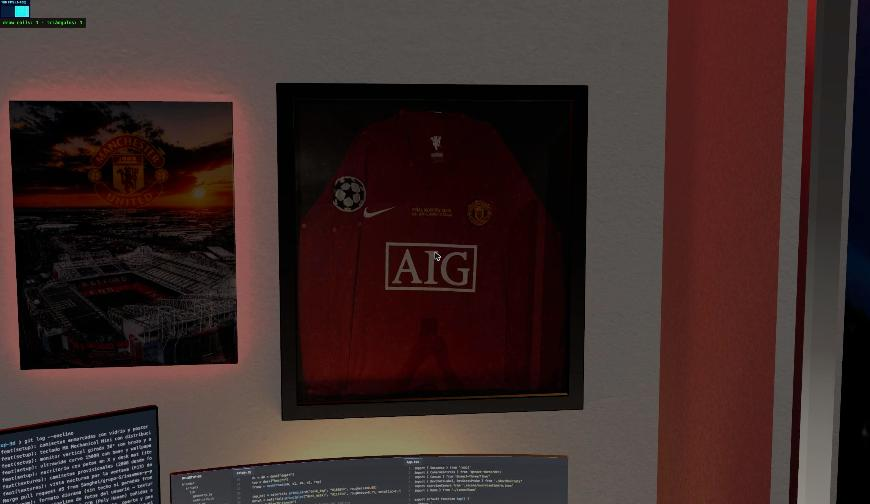
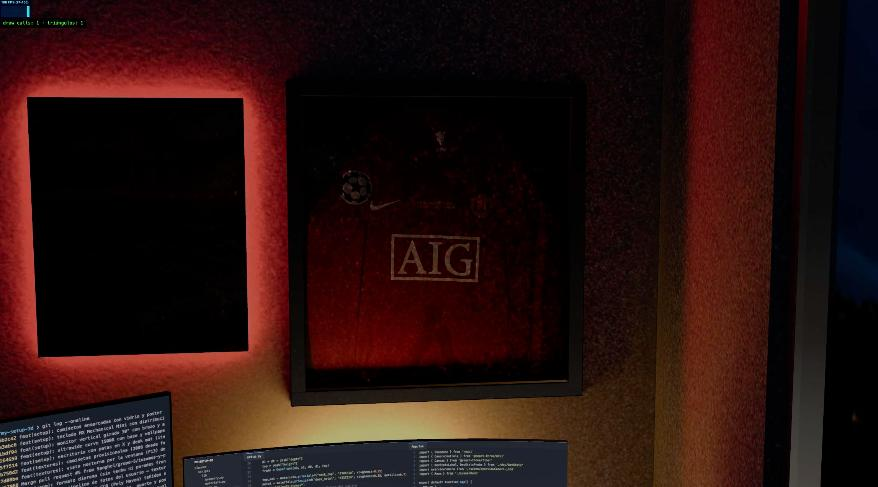
fix(lighting): environment solo como envMap propio de lo que refleja; vuelve el × π del lightmap
three.js ignora material.envMapIntensity cuando el material usa scene.environment (aplica
scene.environmentIntensity): el environment iluminaba en difuso TODO el cuarto (luz fantasma)
y hacía que el atenuado no se notara. Ahora se genera sobre una escena aparte y se asigna como
envMap solo a metal, vidrio y pantallas. Sin la luz fantasma, la calibración correcta es k × π
(comparado contra el render de Blender).

diff --git a/src/scene/useDimming.ts b/src/scene/useDimming.ts
@@ -2,6 +2,7 @@ import { useLayoutEffect } from 'react'
 import { useFrame } from '@react-three/fiber'
 import { MathUtils, type Mesh, type MeshStandardMaterial, type Object3D } from 'three'
 import { useSceneStore } from '../state/sceneStore'
+import { environmentTarget } from './environmentTarget'
 
 /** Brillo de lo que NO se inspecciona (0–1) y qué tan rápido se llega (mayor = más rápido). */
 const DIMMED = 0.25
@@ -15,20 +16,16 @@ interface DimState {
 }
 
 /**
- * El environment map (NightEnvironment) es solo para REFLEJOS. En three.js, scene.environment
- * también ilumina en difuso a todos los materiales, y en los de color claro eso se sumaba a la luz
- * horneada (doble iluminación). Lo conservan solo los metales y los materiales oscuros sin textura
- * (vidrio, pantallas): en ellos la parte difusa no aporta nada y lo que se ve son los reflejos.
- * (Ojo: la rugosidad no sirve como criterio; el poster es brillante pero de color claro.)
+ * El environment map (NightEnvironment) es solo para REFLEJOS: lo reciben, como envMap propio, los
+ * metales y los materiales oscuros sin textura (vidrio, pantallas). En el resto (paredes, piso, fotos)
+ * la luz es solo la horneada. Ojo: la rugosidad no sirve como criterio (el poster es brillante pero claro).
  */
 const reflective = (material: MeshStandardMaterial) =>
   material.metalness > 0.3 || (!material.map && material.color.getHSL({ h: 0, s: 0, l: 0 }).l < 0.08)
 
-/**
- * En inspección, el resto del cuarto se atenúa para que el objeto destaque (design D10).
- * Se baja la luz horneada (lightMapIntensity), la emisión (pantallas, ventana) y los reflejos,
- * de forma animada. No se usa transparencia: da artefactos de orden de dibujo.
- */
+/** Intensidad de los reflejos del environment en los materiales que lo reciben. */
+const ENV_INTENSITY = 0.6
+
 export function useDimming(scene: Object3D) {
   // Cada objeto del catálogo recibe copias propias de sus materiales: si dos objetos comparten
   // uno (el marco negro de las dos camisetas), atenuar uno no debe apagar el otro.
@@ -38,8 +35,7 @@ export function useDimming(scene: Object3D) {
       if (!mesh.isMesh) return
       if (mesh.userData.itemId) mesh.material = (mesh.material as MeshStandardMaterial).clone()
       const material = mesh.material as MeshStandardMaterial
-      const env = reflective(material) ? 1 : 0
-      material.envMapIntensity = env
+      const env = reflective(material) ? ENV_INTENSITY : 0
       mesh.userData.dim = {
         factor: 1,
         lightMap: material.lightMapIntensity,
@@ -51,15 +47,22 @@ export function useDimming(scene: Object3D) {
 
   useFrame((_, delta) => {
     const { mode, selectedId } = useSceneStore.getState()
+    const environment = environmentTarget.environment
     scene.traverse((object) => {
       const mesh = object as Mesh
       const dim = mesh.userData.dim as DimState | undefined
       if (!mesh.isMesh || !dim) return
+      const material = mesh.material as MeshStandardMaterial
+      // El environment se genera en el primer cuadro: se asigna apenas existe
+      if (dim.env > 0 && environment && material.envMap !== environment) {
+        material.envMap = environment
+        material.envMapIntensity = dim.env * dim.factor
+        material.needsUpdate = true
+      }
       const target = mode === 'inspecting' && mesh.userData.itemId !== selectedId ? DIMMED : 1
       if (Math.abs(dim.factor - target) < 0.001) return
       // damp: se acerca al objetivo de forma suave e independiente de los fps
       dim.factor = MathUtils.damp(dim.factor, target, SPEED, delta)
-      const material = mesh.material as MeshStandardMaterial
       material.lightMapIntensity = dim.lightMap * dim.factor
       material.emissiveIntensity = dim.emissive * dim.factor
       material.envMapIntensity = dim.env * dim.factor

diff --git a/src/scene/Room.tsx b/src/scene/Room.tsx
@@ -22,9 +22,10 @@ const DRAG_THRESHOLD_PX = 6
 
 /**
  * El cuarto exportado desde Blender con su luz horneada (design D5).
- * lightMapIntensity = el factor con el que se escaló el lightmap al guardarlo en 8 bits.
- * Calibrado comparando con el render de Blender: con un × π extra (por el Lambert de three.js)
- * la web salía notablemente más clara que el render; sin él coinciden.
+ * three.js usa el lightmap como irradiancia y el difuso de Lambert la divide por π; el horneado
+ * DIFFUSE de Blender ya viene listo para multiplicar el color: por eso intensidad = k × π.
+ * (Verificado contra el render de Blender. Una primera calibración "sin π" parecía correcta solo
+ * porque scene.environment sumaba luz difusa a todo; ver environmentTarget.ts y la nota 09.)
  */
 export function Room() {
   const { scene } = useGLTF(ROOM_URL, USE_DRACO, USE_MESHOPT)
@@ -36,7 +37,7 @@ export function Room() {
       if (!mesh.isMesh || !mesh.geometry.getAttribute('uv1')) return
       const material = mesh.material as MeshStandardMaterial
       material.lightMap = lightMap
-      material.lightMapIntensity = lightmap.intensity
+      material.lightMapIntensity = lightmap.intensity * Math.PI
       material.needsUpdate = true
     })
   }, [scene, lightMap])

diff --git a/src/scene/NightEnvironment.tsx b/src/scene/NightEnvironment.tsx
@@ -1,13 +1,15 @@
 import { Environment, Lightformer } from '@react-three/drei'
+import { environmentTarget } from './environmentTarget'
 
 /**
  * Environment map nocturno generado en el navegador (sin descargar HDRIs): solo aporta REFLEJOS
  * en vidrio, pantallas y metal. La luz difusa ya viene horneada en el lightmap.
+ * Se genera sobre `environmentTarget`, no sobre la escena real (ver environmentTarget.ts).
  * Los "lightformers" imitan las fuentes reales: rojo (poster), ámbar (ultrawide), blanco (escritorio).
  */
 export function NightEnvironment() {
   return (
-    <Environment resolution={128} environmentIntensity={0.6}>
+    <Environment resolution={128} scene={environmentTarget}>
       <color attach="background" args={['#05060b']} />
       <Lightformer form="rect" color="#ff2a2a" intensity={2} scale={[2, 1, 1]} position={[-2, 1.5, -3]} />
       <Lightformer form="rect" color="#ffb347" intensity={1.5} scale={[2, 1, 1]} position={[2, 1.2, -3]} />

diff --git a/src/scene/environmentTarget.ts b/src/scene/environmentTarget.ts
@@ -1,0 +1,9 @@
+import { Scene } from 'three'
+
+/**
+ * Escena "de mentira" donde <NightEnvironment> deja su environment map (environmentTarget.environment).
+ * No se usa scene.environment de la escena real porque three.js lo aplica a TODOS los materiales
+ * estándar como luz difusa e ignora su envMapIntensity (WebGLRenderer usa scene.environmentIntensity
+ * cuando material.envMap es null). Así, solo los materiales que reflejan reciben el mapa como envMap propio.
+ */
+export const environmentTarget = new Scene()
